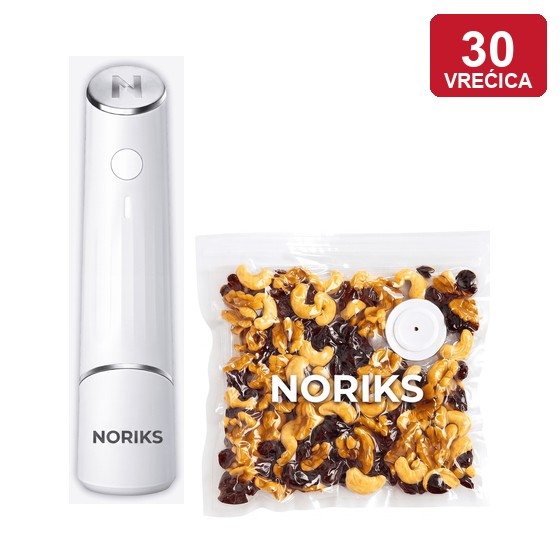
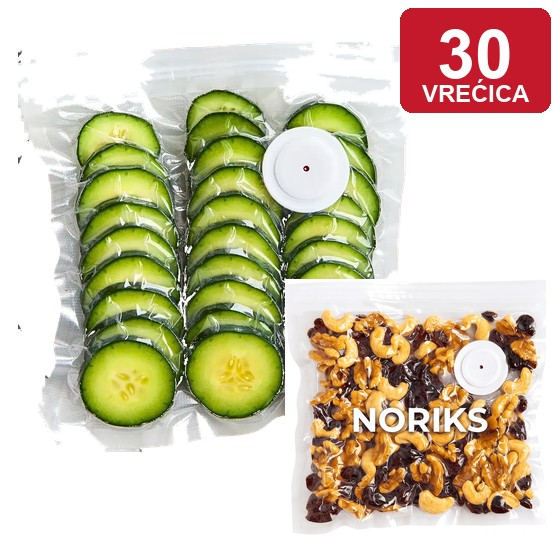
Vrecice: vecja sredinska grafika na rdecem krogu (prosojna slika + CSS krog), poudarek na veckratni uporabi v kratkem opisu in opisu; vecje slicice paketov z jasno oznako 10/20/30

diff --git a/wp-content/themes/noriks/template_parts/product-bottom/why-seal.php b/wp-content/themes/noriks/template_parts/product-bottom/why-seal.php
@@ -180,13 +180,13 @@ $ico_recyc = '<path d="M7 7l2-3 2 3"/><path d="M9 4v9H5l2.5 4"/><path d="M15 20h
         <div class="nsl-rlab"><div class="nsl-rtxt"><strong>Za zamrzivač, mikrovalnu i perilicu</strong><span>Sigurne za spremanje, podgrijavanje i pranje.</span></div><?php echo $sl_ico( $ico_snow ); ?></div>
         <div class="nsl-rlab"><div class="nsl-rtxt"><strong>Čuvaju okus i hranjive tvari</strong><span>Bez zraka se okus i sastojci dulje zadrže.</span></div><?php echo $sl_ico( $ico_leaf ); ?></div>
       </div>
-      <div class="nsl-rc"><?php echo $sl_img( 'seal-vrecica-krug.jpg', 'NORIKS vakuumska vrećica' ); ?></div>
+      <div class="nsl-rc nsl-rc-circle"><?php echo $sl_img( 'seal-vrecica.png', 'NORIKS vakuumska vrećica za višekratnu upotrebu' ); ?></div>
       <div class="nsl-rr">
         <div class="nsl-rlab"><?php echo $sl_ico( $ico_drop ); ?><div class="nsl-rtxt"><strong>Bez mirisa i bez curenja</strong><span>Zatvarač brtvi, miris ostaje unutra.</span></div></div>
         <div class="nsl-rlab"><?php echo $sl_ico( $ico_recyc ); ?><div class="nsl-rtxt"><strong>Izdržljive i za višekratnu upotrebu</strong><span>Operete ih i koristite iznova.</span></div></div>
       </div>
     </div>
-    <p class="nsl-note nsl-center">Polovica vrećica u kompletu je manja (1 l), polovica veća (2 l).</p>
+    <p class="nsl-note nsl-center"><b>Vrećice se peru i koriste iznova — nisu jednokratne.</b> Polovica vrećica u kompletu je manja (1 l), polovica veća (2 l).</p>
   </div>
 </section>
 
@@ -345,16 +345,17 @@ $ico_recyc = '<path d="M7 7l2-3 2 3"/><path d="M9 4v9H5l2.5 4"/><path d="M15 20h
 /* 3) + 5) radijalno */
 .nsl-radial { display: grid; grid-template-columns: 1fr 1.25fr 1fr; gap: 34px; align-items: center; }
 .nsl-rc img { width: 100%; height: auto; display: block; }
-.nsl-radial-lg { margin-top: 12px; }
+.nsl-radial-lg { margin-top: 12px; grid-template-columns: 1fr 1.5fr 1fr; }
 .nsl-radial-lg .nsl-rl, .nsl-radial-lg .nsl-rr { gap: 92px; }
 .nsl-radial-lg .nsl-rtxt strong { font-size: 19px; }
 .nsl-radial-lg .nsl-rtxt span { font-size: 15px; margin-top: 6px; }
 .nsl-radial-lg .nsl-ico { width: 54px; height: 54px; }
 .nsl-radial-lg .nsl-ico svg { width: 26px; height: 26px; }
 .nsl-rc-circle { position: relative; display: flex; align-items: center; justify-content: center; }
-.nsl-rc-circle:before { content: ""; position: absolute; width: 74%; padding-bottom: 74%; border-radius: 50%; background: #c3192a; }
-.nsl-rc-circle:after { content: ""; position: absolute; width: 92%; padding-bottom: 92%; border-radius: 50%; border: 1px solid #f0c4cc; }
-.nsl-rc-circle img { position: relative; width: 62%; }
+.nsl-rc-circle { aspect-ratio: 1 / 1; }
+.nsl-rc-circle:before { content: ""; position: absolute; width: 78%; padding-bottom: 78%; border-radius: 50%; background: #c3192a; }
+.nsl-rc-circle:after { content: ""; position: absolute; width: 100%; padding-bottom: 100%; border-radius: 50%; border: 1px solid #f0c4cc; }
+.nsl-rc-circle img { position: relative; width: 74%; height: auto; filter: drop-shadow(0 6px 16px rgba(0,0,0,.16)); }
 .nsl-rl, .nsl-rr { display: flex; flex-direction: column; gap: 58px; }
 .nsl-rlab { display: flex; align-items: center; gap: 14px; }
 .nsl-rl .nsl-rlab { justify-content: flex-end; text-align: right; }

diff --git a/wp-content/plugins/orto-product/orto-product.php b/wp-content/plugins/orto-product/orto-product.php
@@ -895,7 +895,7 @@ function gck_render_bundle_selector() {
       /* NORIKS ChefSeal: kartica ponude sa slicicom paketa, kao na referenci. */
       #bundle-selector .bundle-option {
           display: grid !important;
-          grid-template-columns: auto 62px minmax(0,1fr) auto;
+          grid-template-columns: auto 76px minmax(0,1fr) auto;
           grid-template-rows: auto auto;
           column-gap: 12px; row-gap: 0; align-items: center;
           padding: 14px 16px !important;
@@ -903,7 +903,7 @@ function gck_render_bundle_selector() {
       #bundle-selector .bundle-option > input[type="radio"] { grid-column: 1; grid-row: 1 / span 2; }
       #bundle-selector .bundle-option .gck-offer-img {
           grid-column: 2; grid-row: 1 / span 2;
-          width: 62px; height: 62px; object-fit: contain; display: block;
+          width: 76px; height: 76px; object-fit: contain; display: block;
           background: #fff; border-radius: 8px; border: 1px solid #ececec;
       }
       #bundle-selector .bundle-option .gck-offer-head {
@@ -959,8 +959,8 @@ function gck_render_bundle_selector() {
       #bundle-selector .gck-popular-badge,
       #bundle-selector .gck-popular-badge-2 { background: #c3192a !important; color: #fff !important; }
       @media (max-width: 560px) {
-          #bundle-selector .bundle-option { grid-template-columns: auto 48px minmax(0,1fr) auto; column-gap: 9px; padding: 11px 12px !important; }
-          #bundle-selector .bundle-option .gck-offer-img { width: 48px; height: 48px; }
+          #bundle-selector .bundle-option { grid-template-columns: auto 56px minmax(0,1fr) auto; column-gap: 9px; padding: 11px 12px !important; }
+          #bundle-selector .bundle-option .gck-offer-img { width: 56px; height: 56px; }
           #bundle-selector .bundle-option .bundle-option-title { font-size: 15px; }
           #bundle-selector .bundle-option .gck-offer-sub { font-size: 12px; }
           #bundle-selector .bundle-option .bundle-total-line .line-total { font-size: 16.5px; }
